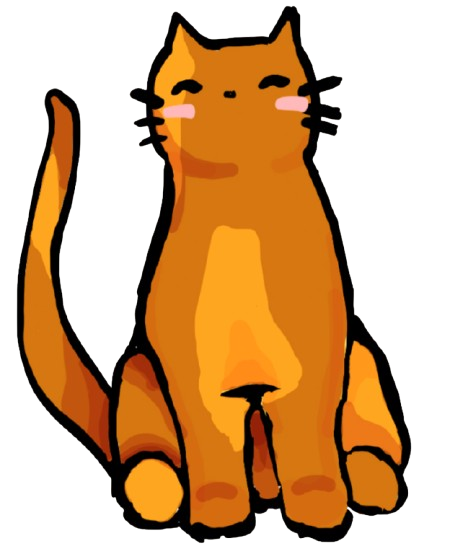
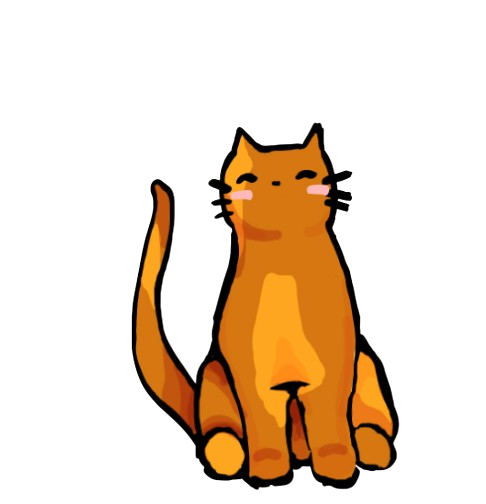
added sleeping animation

diff --git a/src/content/pet.js b/src/content/pet.js
@@ -4,9 +4,28 @@ if (!document.getElementById("virtual-pet")) {
   pet.id = "virtual-pet";
 
   const img = document.createElement("img");
-  img.src = chrome.runtime.getURL("src/assets/pet_front.png");
+  img.alt = "Virtual Pet";
   pet.appendChild(img);
   document.body.appendChild(pet);
+
+  // ---------- LAYOUT (LOCKED) ----------
+  let x = 20;
+
+  pet.style.position = "fixed";
+  pet.style.bottom = "20px";
+  pet.style.left = `${x}px`;
+  pet.style.width = "120px"; // LOCKED container size
+  pet.style.height = "120px";
+  pet.style.pointerEvents = "auto";
+  pet.style.zIndex = "9999";
+
+  img.style.position = "absolute";
+  img.style.bottom = "0";
+  img.style.left = "50%";
+  img.style.transform = "translateX(-50%)";
+  img.style.width = "100%";
+  img.style.height = "auto";
+  img.style.userSelect = "none";
 
   // ---------- CONFIG ----------
   const MIN_X = 20;
@@ -20,7 +39,6 @@ if (!document.getElementById("virtual-pet")) {
   const SIZE_STEP = 0.1;
 
   // ---------- STATE ----------
-  let x = MIN_X;
   let direction = 1;
   let frameIndex = 0;
   let frontCooldown = 0;
@@ -29,6 +47,7 @@ if (!document.getElementById("virtual-pet")) {
   let walkInterval = null;
   let petScale = 1;
 
+  // ---------- FRAMES ----------
   const frames = {
     front: chrome.runtime.getURL("src/assets/pet_front.png"),
     sleep: chrome.runtime.getURL("src/assets/pet_sleep.png"),
@@ -44,23 +63,43 @@ if (!document.getElementById("virtual-pet")) {
     ],
   };
 
+  // ---------- HELPERS ----------
   function applySize() {
     pet.style.transform = `scale(${petScale})`;
   }
 
+  function showFront() {
+    img.src = frames.front;
+    img.style.width = "100%";
+  }
+
+  function showSleep() {
+    img.src = frames.sleep;
+    img.style.width = "150px"; // sleep-only resize
+  }
+
+  function showWalkFrame() {
+    img.style.width = "100%";
+    img.src =
+      direction === 1 ? frames.right[frameIndex] : frames.left[frameIndex];
+  }
+
+  // ---------- STORAGE LOAD ----------
   chrome.storage.local.get(["petSize", "petVisible"], (data) => {
     if (data.petSize) {
       petScale = data.petSize;
       applySize();
     }
+
     if (data.petVisible === false) {
       isHidden = true;
       pet.style.display = "none";
     }
   });
 
+  // ---------- WALKING ----------
   function startWalking() {
-    if (walkInterval || isHidden || isSleeping) return;
+    if (walkInterval || isSleeping || isHidden) return;
 
     walkInterval = setInterval(() => {
       x += direction * SPEED;
@@ -74,11 +113,10 @@ if (!document.getElementById("virtual-pet")) {
       pet.style.left = `${x}px`;
 
       if (frontCooldown > 0) {
-        img.src = frames.front;
+        showFront();
         frontCooldown--;
       } else {
-        img.src =
-          direction === 1 ? frames.right[frameIndex] : frames.left[frameIndex];
+        showWalkFrame();
         frameIndex = (frameIndex + 1) % 3;
       }
     }, INTERVAL);
@@ -89,6 +127,7 @@ if (!document.getElementById("virtual-pet")) {
     walkInterval = null;
   }
 
+  showFront();
   startWalking();
 
   // ---------- CLICK HANDLING ----------
@@ -101,28 +140,28 @@ if (!document.getElementById("virtual-pet")) {
     if (clickTimer) clearTimeout(clickTimer);
 
     clickTimer = setTimeout(() => {
+      // TRIPLE CLICK → HIDE
       if (clickCount >= 3) {
-        // TRIPLE CLICK → HIDE pet
         isHidden = true;
         stopWalking();
         pet.style.display = "none";
-        chrome.runtime.sendMessage({ action: "pet-hidden" });
-
-        // Update popup
-        chrome.runtime.sendMessage({ action: "pet-hidden" });
         chrome.storage.local.set({ petVisible: false });
-      } else if (clickCount === 1) {
-        // SINGLE CLICK → toggle sleep
+        chrome.runtime.sendMessage({ action: "pet-hidden" });
+      }
+
+      // SINGLE CLICK → TOGGLE SLEEP
+      else if (clickCount === 1) {
         if (isSleeping) {
           isSleeping = false;
-          img.src = frames.front;
+          showFront();
           startWalking();
         } else {
           isSleeping = true;
           stopWalking();
-          img.src = frames.sleep;
+          showSleep();
         }
       }
+
       clickCount = 0;
       clickTimer = null;
     }, 300);
